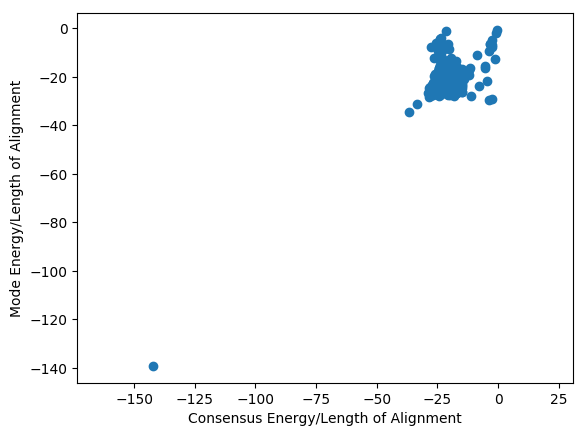
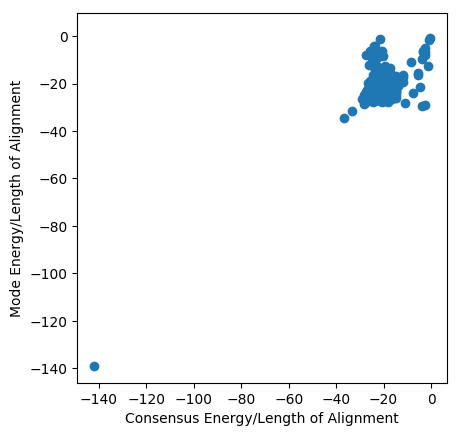
axes square

diff --git a/analyse_plot_stats.py b/analyse_plot_stats.py
@@ -84,7 +84,7 @@ def scatter_plot(x, y, plot_name, x_label, y_label):
         plt.scatter(x, y)
         plt.xlabel(x_label)
         plt.ylabel(y_label)
-        plt.axis('equal')
+        plt.axis('square')
         plt.savefig(plot_name, bbox_inches='tight')
         plt.clf()
         plt.cla()
